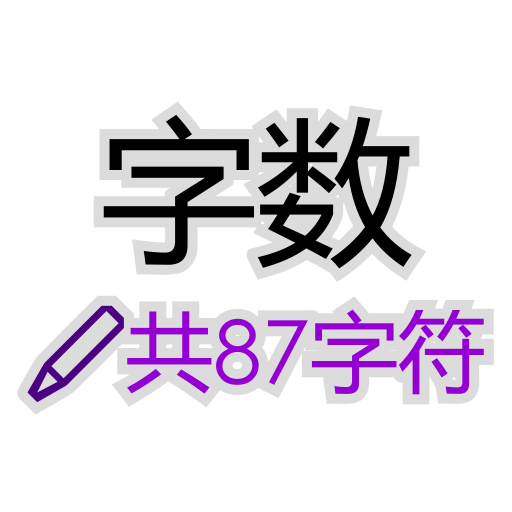
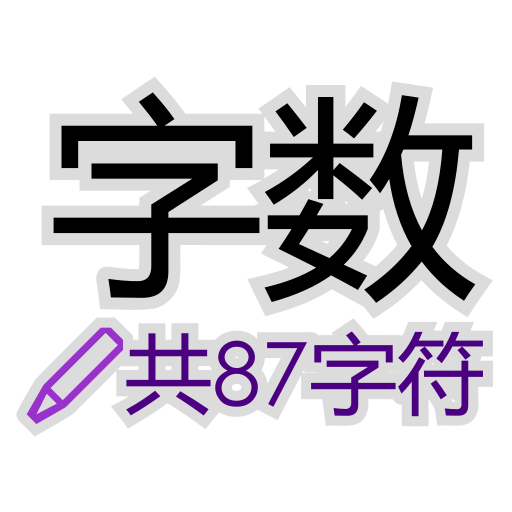
更新图标，更大更显眼

diff --git a/CHANGELOG.md b/CHANGELOG.md
@@ -9,7 +9,7 @@ All notable changes to the "vscode-hanzi-counter" extension will be documented i
 - 点击项目高亮匹配
 - 加中文的描述
 
-## [1.0.0]
+## [1.0.0] - 2023-02-13
 
 - 为每个打开的文档建立一个DocumentCounter的实例，按行缓存各正则表达式统计的字数，提高性能
   - 只在文件打开、保存时统计全文字数
